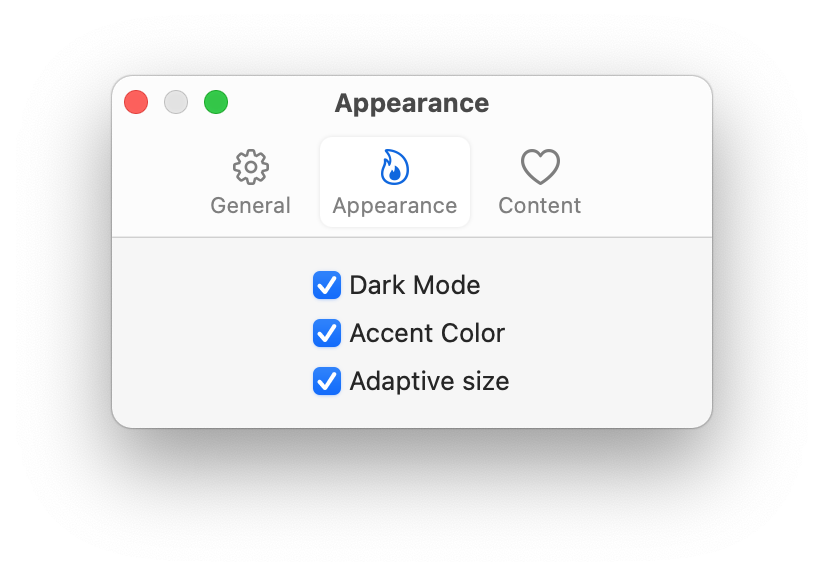
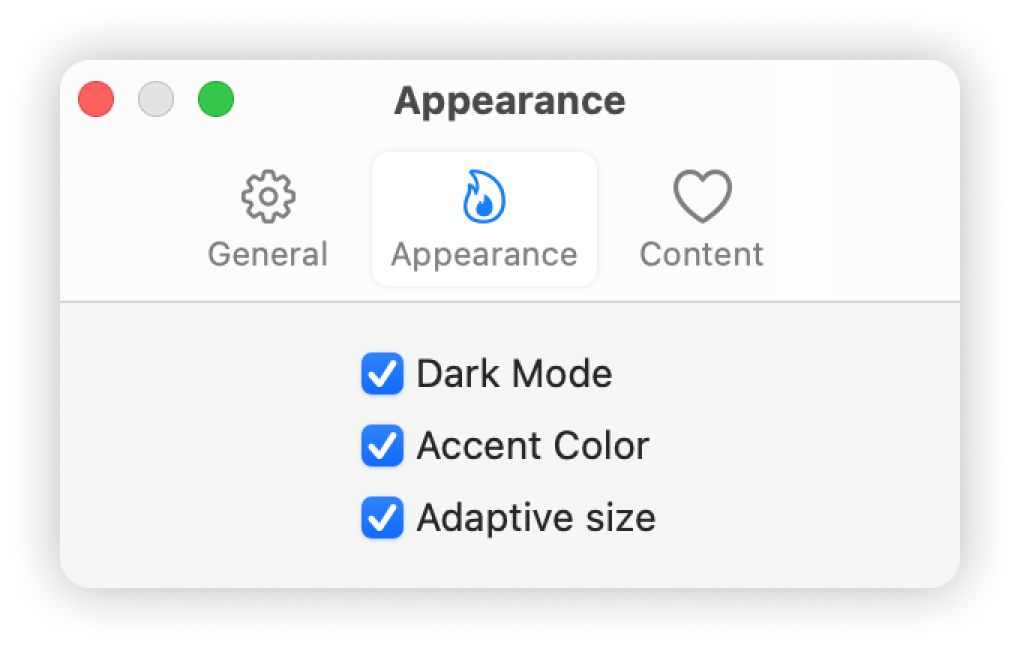
Update Readme

diff --git a/README.md b/README.md
@@ -4,15 +4,11 @@ Mac Settings SwiftUI View
 
 ## Example
 
-<center>
-<img src="Resources/general.png"/>
-</center>
-<center>
-<img src="Resources/appearance.png"/>
-</center>
-<center>
-<img src="Resources/content.png"/>
-</center>
+<p align="middle">
+  <img src="Resources/general.png" width="32%" />
+  <img src="Resources/appearance.png" width="32%" /> 
+  <img src="Resources/content.png" width="32%" />
+</p>
 
 ## Usage
 
@@ -32,18 +28,18 @@ struct MainApp: App {
                 MacSettingsItem(title: "General",
                                 image: "gearshape",
                                 content: generalSettings)
-                MacSettingsItem(title: "Location",
-                                image: "location",
-                                content: locationSettings)
-                MacSettingsItem(title: "Cloud",
-                                image: "cloud",
-                                content: cloudSettings)
+                MacSettingsItem(title: "Appearance",
+                                image: "flame",
+                                content: appearanceSettings)
+                MacSettingsItem(title: "Content",
+                                image: "heart",
+                                content: contentSettings)
             }
         }
     }
     
     var generalSettings: some View { ... }
-    var locationSettings: some View { ... }
-    var cloudSettings: some View { ... }
+    var appearanceSettings: some View { ... }
+    var contentSettings: some View { ... }
 }
 ```
